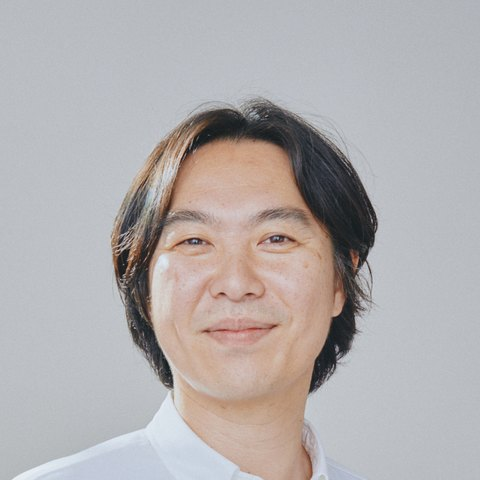
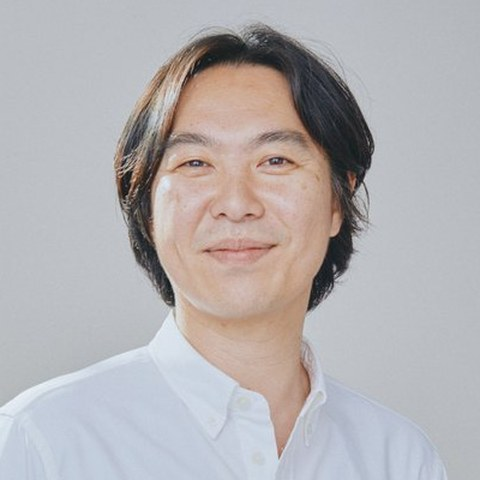
Company page: CEO photo cropped like Manabu Sato's; v1.3.3
Claude-Session: https://claude.ai/code/session_01BxcNTwoM2uwZwqarX94n13

diff --git a/wp-content/themes/traverse-asia/style.css b/wp-content/themes/traverse-asia/style.css
@@ -3,7 +3,7 @@ Theme Name: Traverse Asia
 Theme URI: https://traverse-asia.com/
 Author: Traverse Asia
 Description: Traverse Asia コーポレートサイトのオリジナルテーマ（2026年リニューアル）。
-Version: 1.3.2
+Version: 1.3.3
 Requires at least: 6.4
 Requires PHP: 8.0
 Text Domain: traverse-asia

diff --git a/wp-content/themes/traverse-asia/functions.php b/wp-content/themes/traverse-asia/functions.php
@@ -3,7 +3,7 @@
  * Traverse Asia theme bootstrap.
  */
 
-define( 'TA_VERSION', '1.3.2' );
+define( 'TA_VERSION', '1.3.3' );
 define( 'TA_DIR', get_template_directory() );
 define( 'TA_URI', get_template_directory_uri() );
 
